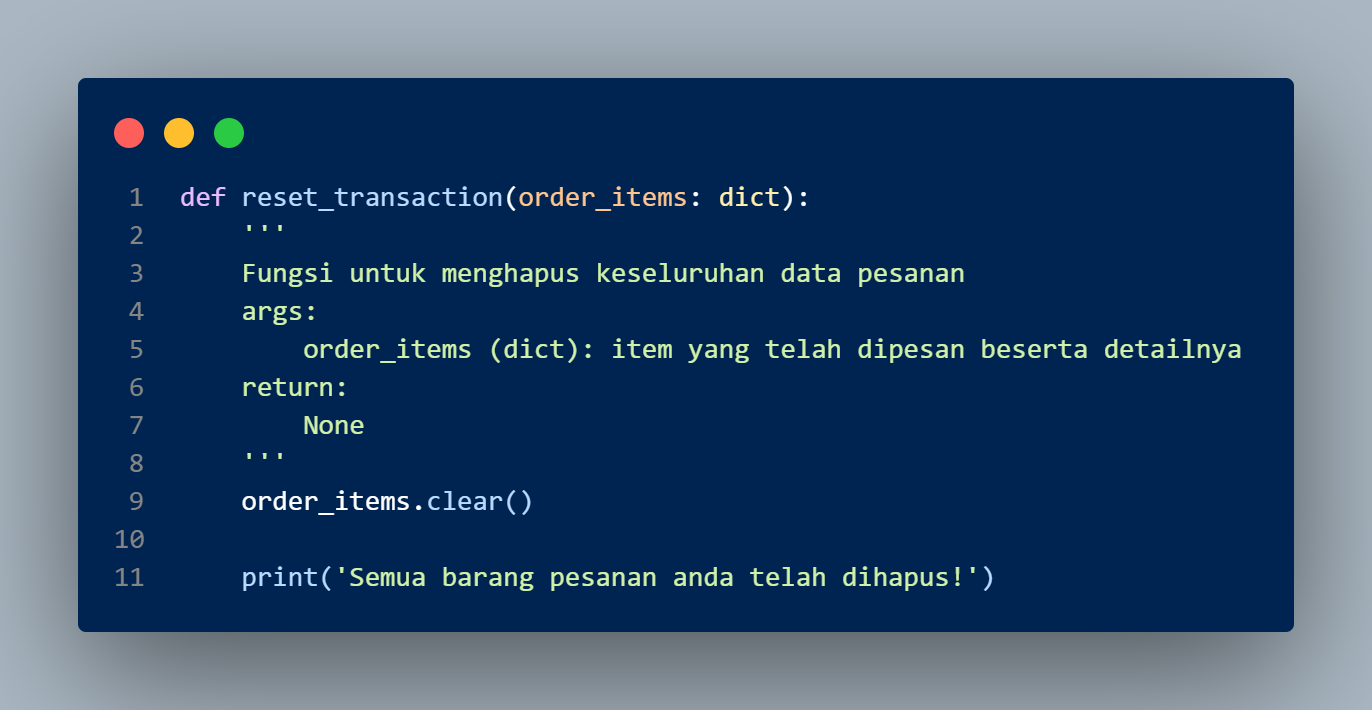
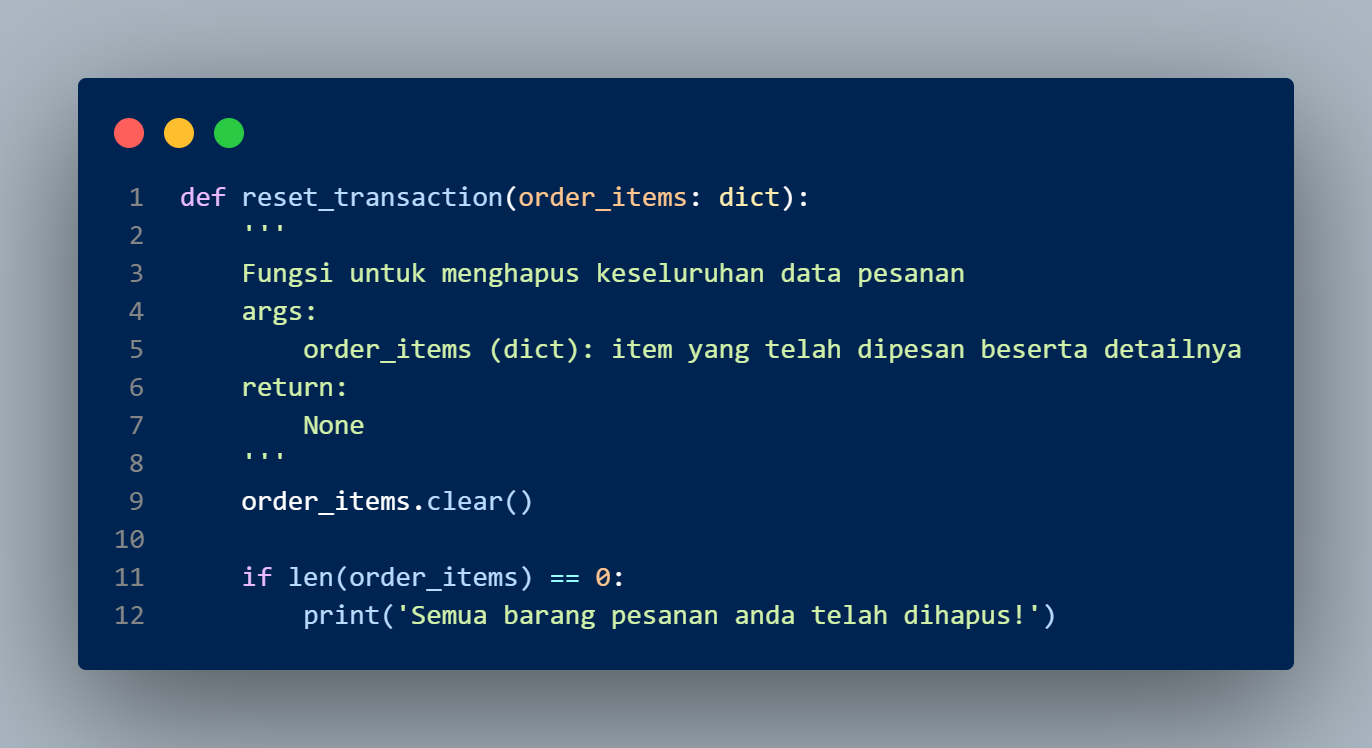
Fixing reset_transaction function

diff --git a/modules/delete_item.py b/modules/delete_item.py
@@ -28,4 +28,5 @@ def reset_transaction(order_items: dict):
     '''
     order_items.clear()
 
-    print('Semua barang pesanan anda telah dihapus!')
+    if len(order_items) == 0:
+        print('Semua barang pesanan anda telah dihapus!')

diff --git a/README.md b/README.md
@@ -55,7 +55,7 @@ Jika tidak ada, data pesanan akan ditampilkan dalam `table_items` yang berisi ko
 **END** 
 <br><br>
 # Penjelasan Code
-**input_item()**<br>
+**inputs.py()**<br>
 
 `input_item()` meminta pelanggan untuk memasukkan nama, jumlah, dan harga item selama pelanggan masih ingin menambah pesanan. Method ini menggunakan bantuan modul `input_int` pada input nilai integer untuk menghandle `ValueError`.
 ```
@@ -442,7 +442,8 @@ def reset_transaction(order_items: dict):
     '''
     order_items.clear()
 
-    print('Semua barang pesanan anda telah dihapus!')
+    if len(order_items) == 0:
+        print('Semua barang pesanan anda telah dihapus!')
 ```
 ---
 **check_order()**
@@ -728,6 +729,7 @@ Pelanggan ingin menambahkan dua item baru dengan fungsi `add_item()`<br>
 Item yang ditambahkan adalah sebagai berikut:
 - Nama Item: Ayam Goreng, Qty: 2, Harga: 20000
 - Nama Item: Pasta Gigi, Qty: 3, Harga: 15000
+
 ![Hasil test case 1](https://i.imgur.com/TPABcM1.png)
 
 **Test Case 2:**
